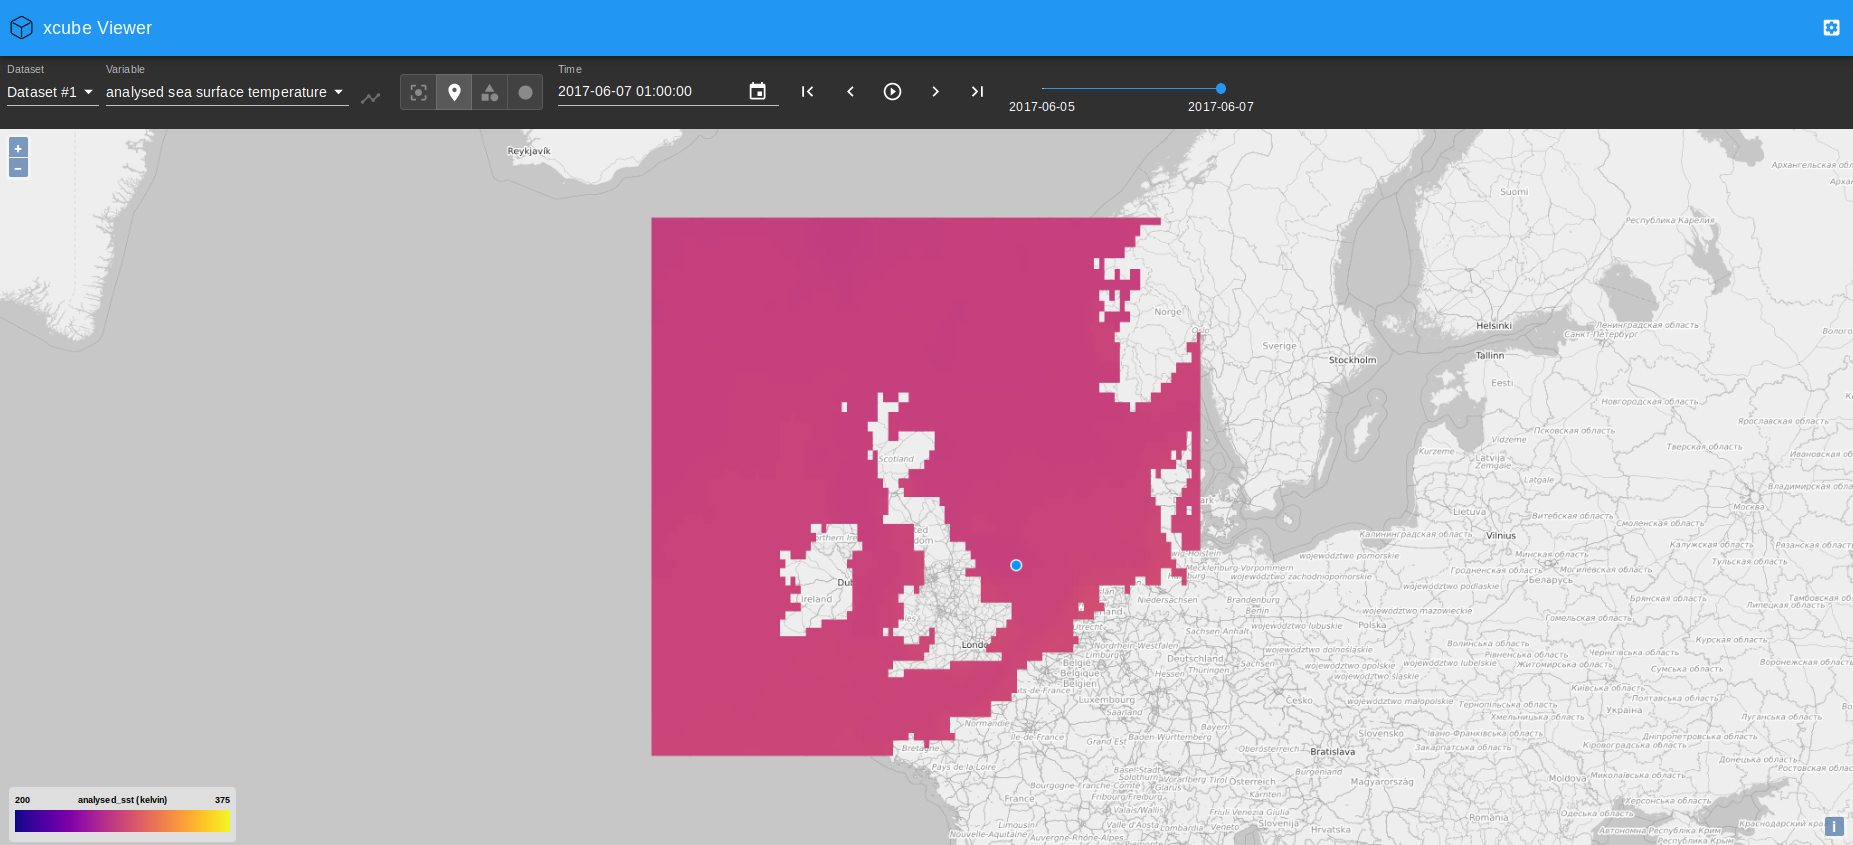
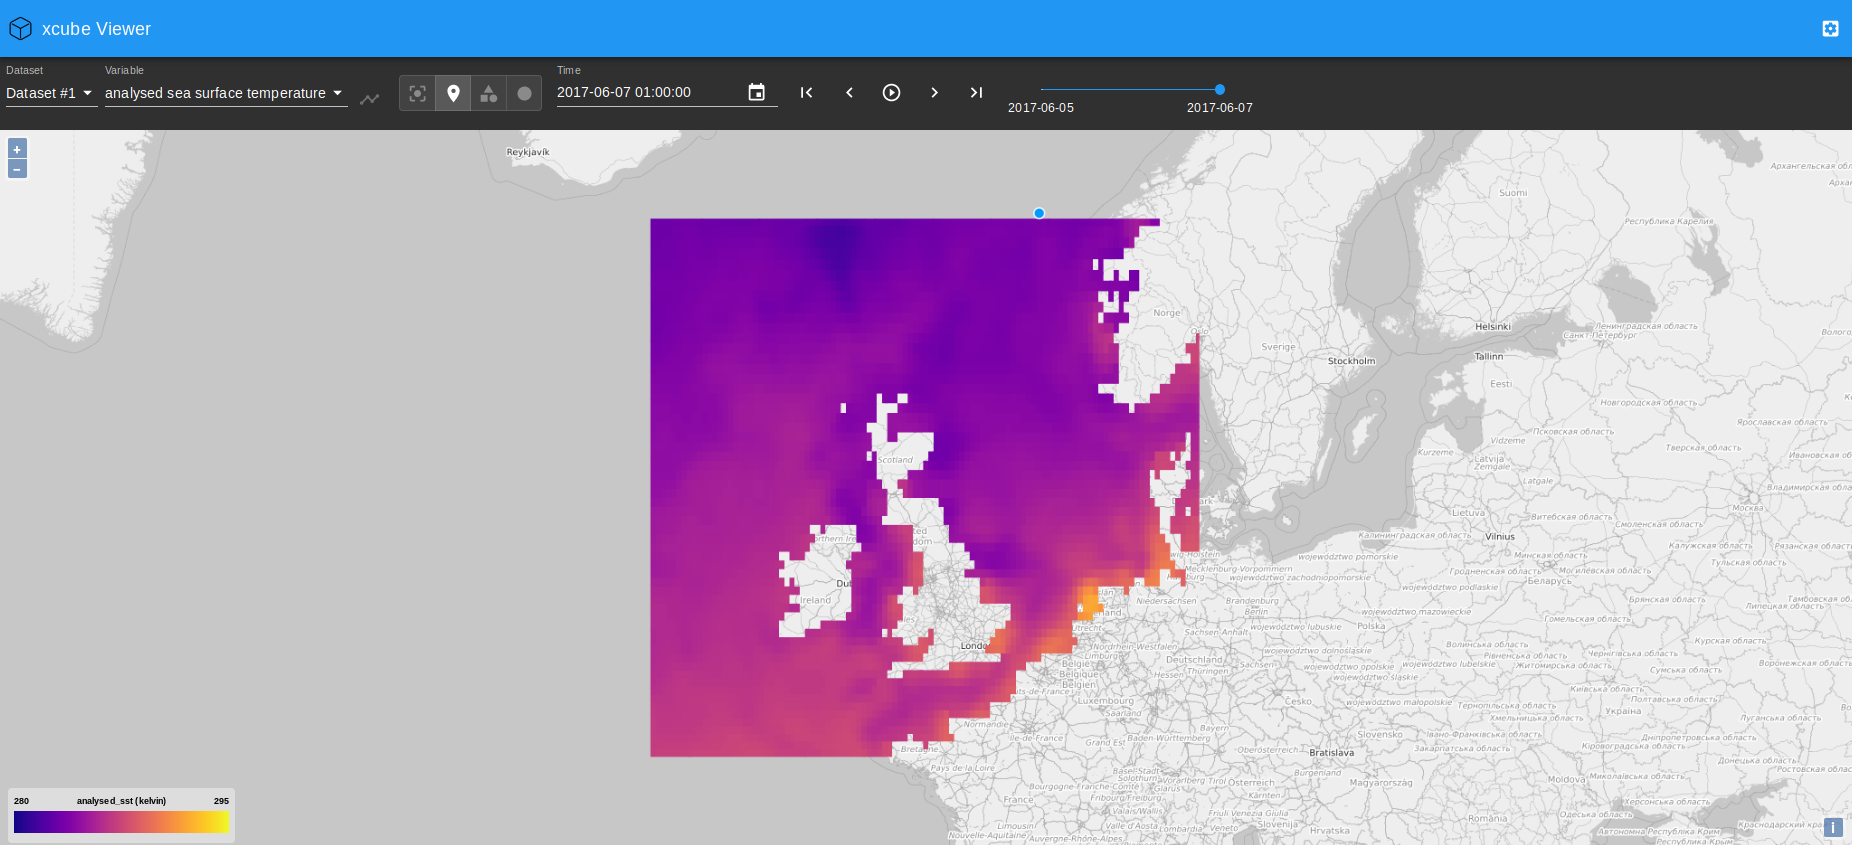
updating example

diff --git a/docs/source/examples/xcube_serve.rst b/docs/source/examples/xcube_serve.rst
@@ -104,7 +104,7 @@ Viewing the generated xcube dataset described in the example :doc:`xcube_gen`:
 
 ::
 
-    $ xcube serve --show --styles "analysed_sst=(200,375,'plasma')" demo_SST_xcube-optimized.zarr
+    $ xcube serve --show --styles "analysed_sst=(280,290,'plasma')" demo_SST_xcube-optimized.zarr
 
 .. image:: ../_static/screenshot_xcube_viewer_sst_docu.png
   :width: 800
@@ -113,7 +113,7 @@ Viewing the generated xcube dataset described in the example :doc:`xcube_gen`:
 In case you get an error message "cannot reach server" on the very bottom of the web app's main window,
 refresh the page.
 
-You can play around with the value range displayed in the viewer, here it is set to min=200K and max=375K.
+You can play around with the value range displayed in the viewer, here it is set to min=280K and max=290K.
 The colormap used for mapping can be modified as well and the
 `colormaps provided by matplotlib`_ can be used.
 
